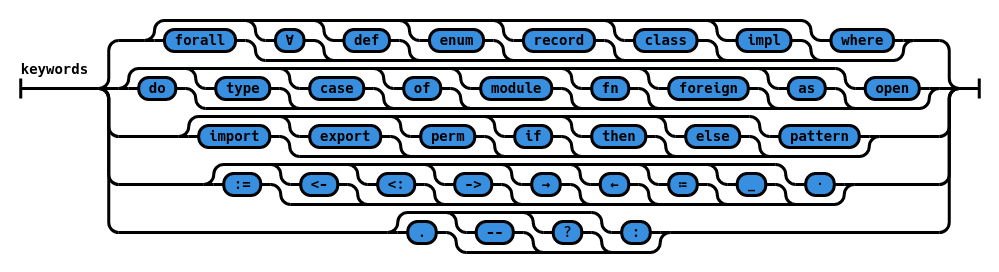
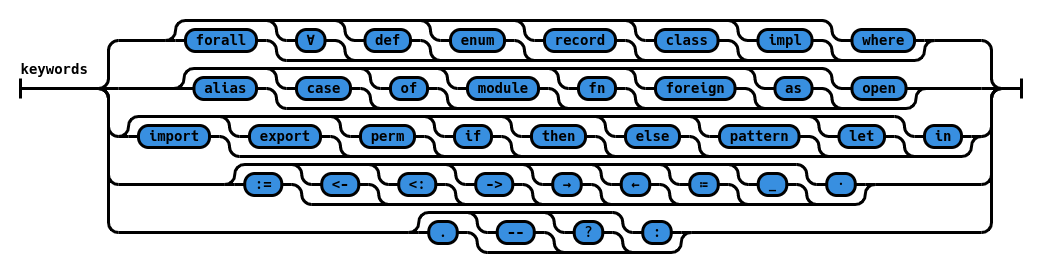
update the list of keywords

Changed region(s): [[0.0, 0.0588, 0.993, 0.8529], [0.3724, 0.7647, 0.6827, 0.9412]]

diff --git a/lexer/zilch.py b/lexer/zilch.py
@@ -8,36 +8,13 @@ class ZilchLexer(ExtendedRegexLexer):
     aliases = ['zilch']
     filenames = ['*.z']
 
-    def identifier_callback(lexer, match, ctx):
-        id = match.group(1) + match.group(2)
-
-        if len(parts := id.split("--", 1)) > 1:
-            # we might have a comment in here, but it's not sure yet
-            if not re.match(r'[^_·]$', parts[0]) and not re.match(r'^[^_·]', parts[1]):
-                endofline = ''
-                pos = match.start() + len(parts[0])
-                while (c := ctx.text[pos]) != '\n':
-                    endofline += c
-                    pos += 1
-                parts[1] = endofline
-
-                yield match.start(), Text, parts[0]
-                yield match.start() + len(parts[0]), Comment.Single, parts[1]
-                ctx.pos = pos
-            else:
-                yield match.start(), Text, id
-                ctx.pos = match.end()
-        else:
-            yield match.start(), Text, id
-            ctx.pos = match.end()
-
     tokens = {
         'commentsandwhitespace': [
             (r'\s+', Text),
             (r'--.*?$', Comment.Single)
         ],
         'keywords': [
-            (r'\b(forall|∀|def|enum|record|class|impl|do|type|case|of|module|fn|foreign|import|export|perm|if|then|else|pattern|where|as|open)\b', Keyword.Reserved)
+            (r'\b(forall|∀|def|enum|record|class|impl|alias|case|of|module|fn|foreign|import|export|perm|if|then|else|pattern|where|as|open|let|in)\b', Keyword.Reserved)
         ],
         'literals': [
             (r'"[^"]*"', String.Double),
@@ -55,9 +32,6 @@ class ZilchLexer(ExtendedRegexLexer):
 
             (r'(\(|\)|\:|\{|\}|\[|\])|,|_', Punctuation)
         ],
-        'identifier': [
-            (r'((?!\d)\S)(\S*)', identifier_callback)
-        ],
         'meta-specifier': [
             (r'#\[.*?\]', Comment.Preproc)
         ],
@@ -67,7 +41,6 @@ class ZilchLexer(ExtendedRegexLexer):
             include('meta-specifier'),
             include('types'),
             include('operators'),
-            include('identifier'),
             include('literals'),
 
             (r'.', Text)

diff --git a/railroad-diagrams.py b/railroad-diagrams.py
@@ -677,8 +677,7 @@ def zilch_keywords():
 			Terminal('where')
 		),
 		HorizontalChoice(
-			Terminal('do'),
-			Terminal('type'),
+			Terminal('alias'),
 			Terminal('case'),
 			Terminal('of'),
 			Terminal('module'),
@@ -694,7 +693,9 @@ def zilch_keywords():
 			Terminal('if'),
 			Terminal('then'),
 			Terminal('else'),
-			Terminal('pattern')
+			Terminal('pattern'),
+			Terminal('let'),
+			Terminal('in')
 		),
 		HorizontalChoice(
 			Terminal(':='),
@@ -1702,4 +1703,4 @@ def zilch_letin():
 
 	return mk_diagram2('let-in', inner)
 
-zilch_typeclass().writeSvg(sys.stdout.write)
+zilch_keywords().writeSvg(sys.stdout.write)
